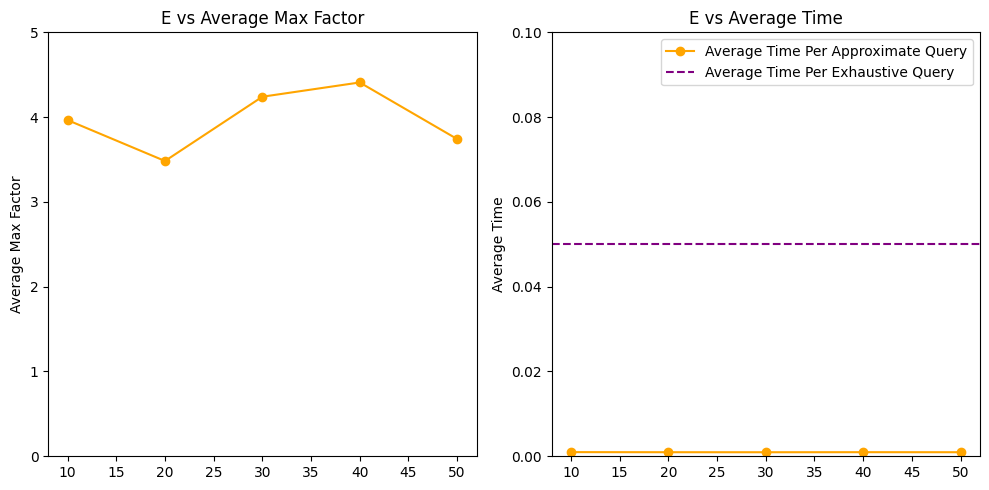
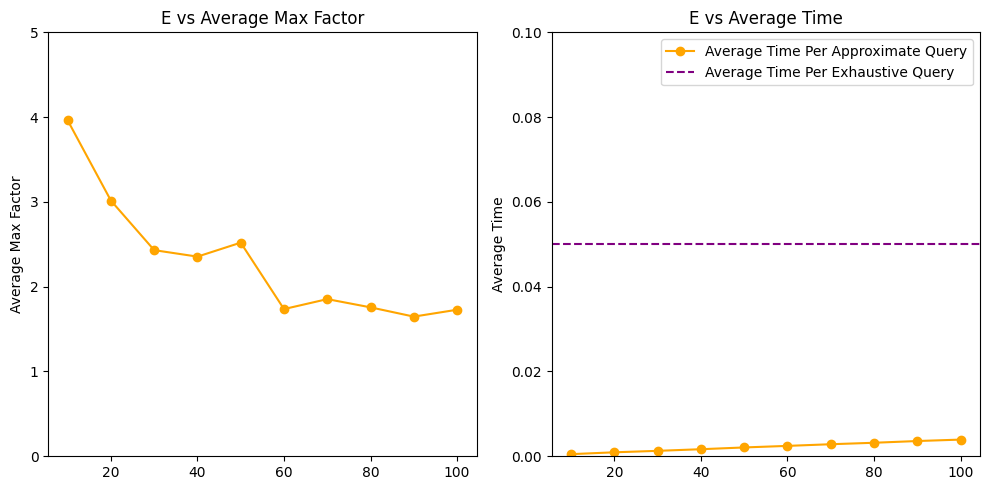
Updated the plots and the Comparisons with the fixed GNNS

diff --git a/Assignment_2/AlgorithmComparisons.md b/Assignment_2/AlgorithmComparisons.md
@@ -1,0 +1,261 @@
+# Algorithm Comparisons
+It is worth noting that the more approximations performed the largest the chance that the approximation factor falls into a large outlier. The following tests were performed with a relatively small number of queries but large number of times, then calculating the average max outlier, in order to get a better sense. 
+
+## LSH
+
+### General
+For the comparisons between the four algorithms we chose to take as a baseline the performance of LSH, since it is the most popular amogst them and yields fairly good results. 
+
+We already had a good idea as to what the optimal parameters for LSH on the MNIST dataset were from the previous Assignment. Nonetheless, we run a wide range of tests and found a set of parameters that performed a bit more consistenly that the one we were previously using. 
+
+### K, The number of Hyperplanes of the Hashfunctions
+We first run LSH with a variable ```K```, leaving all the other variables constant. Increasing the number of the hyperplanes beyond the default value (4) yielded no notable improvments in accuracy, neither any notable increase in time. This means that the new "cuts" in the space don't offer any new information, which of course was what we had noticed from the previous assignment. 
+
+Above (6) hyperplanes, the buckets seem to become sparse, since there were many accounts of K-NN failing to even find ```K``` candidates, let alone good ones. 
+
+Decreasing the number of hyperplanes, increases the accuracy a bit but at a time cost
+
+We performed those tests keeping the values which seemed optimal to us in the first assignment, that is:
+
+* ```L = 5```
+* ```Window = 1500```
+* ```Table Size = 3750```
+
+![png](plots/output_2_0.png)
+    
+
+
+### L, The number of Hashtables
+We knew that L is the variable that has the most impact, both in approximation and in time. A large L value essentially simulates an exhaustive search by creating so many hashtables that for every point, they include all possible neighbors. Thus passing through every hashtable which result in calculating every distance from every point to another. 
+
+Again we performed the test for L keeping the values which seemed optimal to us in the first assignment, that is:
+
+* ```K = 4```
+* ```Window = 1500```
+* ```Table Size = 3750```
+
+![png](plots/output_4_0.png)
+    
+
+
+### W, The size of the window of the Hyperplane function
+This value we had experimentally learned that it was very important, it was the difference between filling up the buckets with good approximations or not at all. There were plenty of times that we weren't getting any results because of a very low ```W``` value. We had learned that the optimal for our implementation, as well as the MNIST dataset was somewhere around ~1400.
+
+* ```L = 5```
+* ```K = 4```
+* ```Table Size = 3750```
+    
+![png](plots/output_6_0.png)
+    
+
+
+### Table Size, i.e. the number of buckets of each Hashtable
+This value is given as ```SizeOfDataset/2^n``` . Of course we quickly rejected the really large values.
+Again the test were run with the rest of the variables constant:
+
+* ```L = 5```
+* ```K = 4```
+* ```W = 1500```
+    
+![png](plots/output_8_0.png)
+    
+
+
+### Finding the optimal combination
+We run many tests, where we fed the program random parameters from a certain pool of parameters that we though to be within the optimal range. Then we took our optimal parameters and tested them for the actual max factor (not the average of many tries), to make sure that even our worst outlier was approximated good enough (i.e. our max approximation factor was less than ```2``` at all times).
+
+Below the results of our "stress test" are shown. As you can see, you'd need to run more than ```5000``` queries in a row for a strong a enough chance that just one of them will over-approximate the nearest neighbor by a factor of ```2```. And all that achieved with only a ```0.0016 seconds/query```, in contrast with the brute force ```0.05 seconds/query``` (~32 times faster).
+
+The tests below were run for the values: 
+
+* ```L = 6```
+* ```K = 4```
+* ```W = 1400```
+* ```TableSize = 7500```
+
+![png](plots/output_10_0.png)
+    
+
+
+## Hypercube
+
+### General
+Having LSH as a baseline we will try to find the best parameters of the Hypercube that immitate the results of LSH.
+Also based on our empirical knowledge of how the algorithm performs, we have formed a set of default values as the based testing ground of each parameter alone.
+
+### K, the dimensions of the Hypercube
+We obviously don't want to dimensions to be too low, since that would mean that there are not enough buckets to adequetly differentiate between the datapoints. Of course the more dimensions the most accurate our approximations, but that also depends on the rest of parameters. 
+
+Thinking of the edge cases, it's easy to see that for low dimensions we would need a high M parameter (that is the number of elemets we are allowed to check) but we could get away with relatively low probes (the amount of neighboring vertices we are allowed to visit) since the hypercube verteces/buckets would contain many elements.
+
+On the other hand, thinking of a case where each bucket/vertex only holds one datapoint (i.e. high dimensionality hypercube), we would need as many probes as number of elements that we are allowed to check, and we could possibly get away with only checking just a bit more than the specified amount of our KNN and get a very good approximation. This of course has the disadvantage of being extremely slow.
+
+For the test, the rest of parameters are set to:
+
+* ```Probes = 500```
+* ```M = 3000```
+
+![png](plots/output_13_0.png)
+    
+
+
+### Probes
+There is nothing much to say about the probes, other than the fact the higher dimensions require more probes to reap their full potential. The peculiar thing about those particular parameters of the hypercube is that they all forego the natural rules of the structure and instead represent parameters that are intuitive for us to think of, but at the cost of being disconnected with the problem itself. 
+
+This fact is also demonstrated in our implementation of the Hypercube, where the parameter ```probes``` is turn into the much more seemless ```MaxHammingDistance``` which neatly corresponds with the structure of the hypercube itself, in contrast with the parameter ```probes```, carries no direct information about how far you are allowed to strafe from the initial vertex/bucket. 
+
+For the test, the rest of parameters are set to:
+
+* ```K = 14```
+* ```M = 3000```
+
+![png](plots/output_15_0.png)
+    
+
+
+### M (number of elements allowed to check)
+```M``` is probably the least impressive of all the parameters. It's an entirely artificial parameter that only serves the purpose of forcibly stopping the search once a certain number of elements have been checked. Unlike the ```probes``` parameter which at least can be mapped to a certain hamming distance given a hypercube of set dimensions, ```M``` lacks even this type of correspondance. 
+
+Nonetheless, it is indeed helpful as an easy to calibrate the speed/accuracy tradeoff.
+The following is how the algorithm performs for different ```M``` values given our favourite values of the rest of the parameters:
+
+* ```K = 14```
+* ```Probes = 500```
+
+![png](plots/output_17_0.png)
+    
+
+
+### Finding the optimal combination
+The Hypercube becomes slow when trying to immitate the accuracy of LSH but nonetheless we found a parameter combination that was accurate without compromising the querying speed too much. 
+Specifically the time per query that Hypercube needs to achieve consistent worst case approximations less than a factor of ```2``` is ```0.0051 seconds/query``` (~10 less than brute force).
+
+Those parameters are:
+
+* ```K = 11```
+* ```Probes = 6000```
+* ```M = 4000```
+
+![png](plots/output_19_0.png)
+    
+
+
+## GNNS
+### General
+Initially we were suprised at the performance of GNNS, since it had the ability to give better results than LSH, with fast querying speed as well. It was when we started running some more thorough tests that we realized that GNNS had the capacity to be very innacurate, yielding some terrible approximations.
+
+Of course it also had the potential to be both fast and accurate, and that potential was hidden within the ```R``` (random restarts parameter). With a bit of a larger value than the default one (which was set to one), GNNS can yield fairly accurate results with a good querying speed. 
+
+In the tests below, we will be using LSH to fill up the index. After finding parameters that appear optimal, we will compare the two initialization methods of LSH and Hypercube, using their optimal parameters, to see if there will be any visible difference in the performance of GNNS.
+
+### R (Random Restarts)
+This parameter is basically acts as a de-randomizer. That's because GNNS relies on a random starting node, which can throw off the whole search by a lot in some cases. Giving it many restarts increases the chances that this random node will sooner or later end up in the correct "neighborhood", as it were. 
+
+That of course comes with a price; since the random restarts in a sense restart the GNNS algorithm, they can end up slowing it down by a lot. 
+
+Below is the impact of the ```R``` parameter keeping the rest of the parameters at a modest level. Notice that average time of a query is analogus to the number of random restarts; when the latter is doubled the first one is doubled as well. This is exactly the behavior we expected. 
+
+When it comes to its relation with the Average Max Factor, we followed the "Elbow" method. Notice in the graph below that the improvment is very steep at the ```R = 4```, which of course is the value what we chose to stick to.
+
+* ```k = 20```
+* ```greedySteps = 10```
+* ```E = 20```
+
+![png](plots/output_22_0.png)
+    
+
+
+### k (Max outdegree)
+Since the index is initialized with approximate methods, which are not particularly accurate given the task of a large "K" in the KNN. That's why we restricted the ```k``` values to a pool of relatively small numbers.
+
+* ```R = 4```
+* ```greedySteps = 10```
+* ```E = k```
+
+![png](plots/output_24_0.png)
+    
+
+
+### E (Expansions)
+This parameter determines how many of those out edges we will be using to find. Since we are in control of both ```k``` and ```E```, we could easily omit this parameter and just use every out edge in our search, calibrating the ```k``` parameter accordingly instead. For the sake of consistency, we have included the results of KNN with varying ```E```, using the max ```k``` from our previous test, to further demonstrate this correspondance. 
+
+* ```R = 4```
+* ```k = 100```
+* ```greedySteps = 10```
+
+![png](plots/output_26_0.png)
+    
+
+
+### G (Greedy Steps)
+This parameter controls how many steps we will take from our initial node. Initially, the only canidates for our KNN are the direct neighbors of our initial **random** node, which is not ideal. ```G``` allows us to find better suited candidates by letting us take ```G``` steps in the (greedy) "right" direction, *id est* it allows us to jump to the node that is "closest" to our query node.
+
+The thing is, it doesn't seem to be doing its job very well, maybe because of the Eucledian metric, or maybe because the approximate methods don't make a good enough graph. It slows the down the queries without offering any improvements in our approximations.
+
+* ```k = 20```
+* ```R = 4```
+* ```E = 20```
+
+![png](plots/output_28_0.png)
+    
+
+
+### Finding the optimal combination
+The tests gave us a pretty good idea about the combination of parameter that could make GNNS competitive with LSH.
+
+When it comes to the comparison of GNN-LSH and GNNS-Hypercube, as we expected, GNN-LSH seems to create a better graph than GNNS-Hypercube, as showcased by the comparison below.
+
+As for the quality of the approximation, we settled for a result very similar to that of the pure Hypercube, both in accuracy (albiet GNNS here is still a bit more volatile) and in querying speed, with the speed hitting the exact goal of a ~10 times faster querying speed than brute force (```0.004690 seconds/query``` in comparison to ```0.05 seconds/query``` of the brute force). 
+
+* ```K = 20```
+* ```R = 20```
+* ```E = 20```
+* ```G = 10```
+    
+![png](plots/output_30_0.png)
+    
+
+
+## MRNG
+
+### General 
+The search that we've been tasked to implement for our Monotonic Relative Neighborhood Graphs, basically only takes one parameter, similar to to the ```M``` parameter of our Hypercube; the number of nodes we are allowed to check before we stop the algorithm.
+
+Of course the meat of this algorithm is the initialization, in creating monotonic "graph paths" as it were. This is also the most expensive step, the initialization being quite slow for large datasets. Thus we decided to initilize it with only half of the MNIST dataset in our tests. 
+
+### l (Size of candate set)
+
+This parameter is very straight forward. Again, just like we saw with ```M``` parameter in the Hypercube, the ```l``` parameter serves as direct way to calibrate the accuracy/speed tradeoff. Because we were working with a reduced version of the set, we shifted into thinking more about the ratio of ```l/SizeOfDataset``` than absolute numbers. 
+
+The speed we were looking for per query, was no more than the concession that was forced upon us in the previous methods (Hypercube/GNNS), meaning no less than a ~10 times speedup from the brute force.
+
+While MRNG displayed a better behaviour than GNNS, it is still lacking (as far as handling the worst case goes) in comparison to the Hypercube and of course, the star of the show, LSH. 
+
+### Finding the optimal combination
+There wasn't much to this other than testing for different values of ```l```. Below are the results of our tests. And since this is only one parameter, we could afford to directly test for max approximation factors, rather than taking the average of many attempts.
+
+The way we approached it was straight forward. We pushed the ```l``` as far as it would go without resulting a speedup that was less that the factor of ~10 of the brute force, for this given dataset.
+
+The ```l``` value we settled on was ```l = 200``` which is roughly ```0.7%``` of the size of the dataset. Of course since ```l``` results in an absolute increase in querying time, this percentage will not be optimal in datasets much smaller or much larger than ```60000``` but it may be a good baseline.
+
+The speed needed, for the below accuracies showcased below, is ```0.0060 seconds/query```.
+ 
+![png](plots/output_34_0.png)
+    
+
+
+## Comparisons of the algorithms using our (optimal) parameters
+In the graphs below we compare the max approximation factor for all the algorithms given an increasing dataset size, as well as the speeds of the algorithms using the parameters that performed best in our tests.
+    
+![png](plots/output_36_0.png)
+    
+
+
+# Conclusions
+In the conducted tests, Locality-Sensitive Hashing (LSH) emerged as the obviously superior algorithm, showcasing the highest level of performance. Similar results were achieved with the Hypercube and GNNS algorithms, which, although slower, demonstrated a good level of accuracy.
+
+On the other hand MRNG, even though its initial results seemed satisfactory, a notable drawback surfaced in its inconsistency when confronted with edge cases.
+
+In conclusion, while LSH stands out as the optimal choice in terms of overall performance, the Hypercube and GNNS algorithms provide viable alternatives with a small sacrifice in speed. The MRNG algorithm, while proficient in many cases, struggles to maintain a high levels of accuracy when comfronted with large query sets. 
+
+But of course we can't think of those results independently of the particular dataset (MNIST) and metric (Eucledean), both of which might be indirectly putting the graph searches at a disadvantage. 
